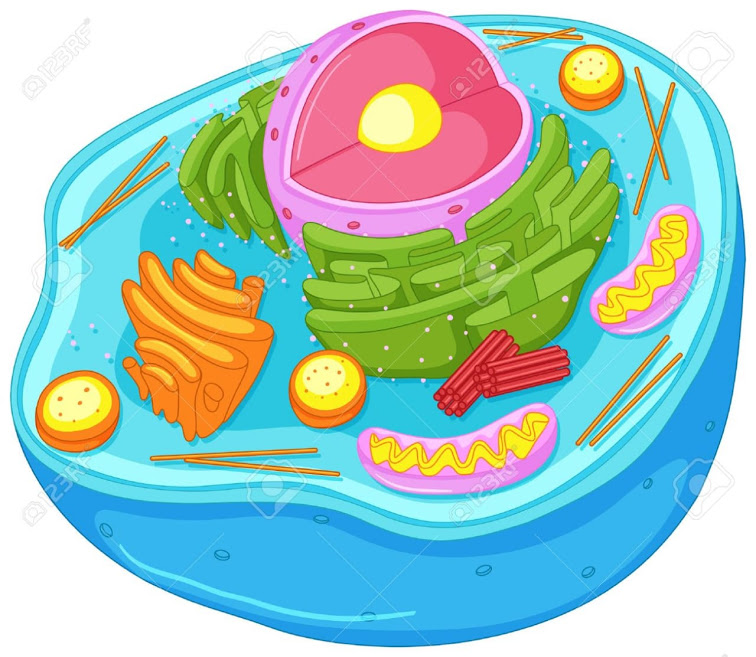
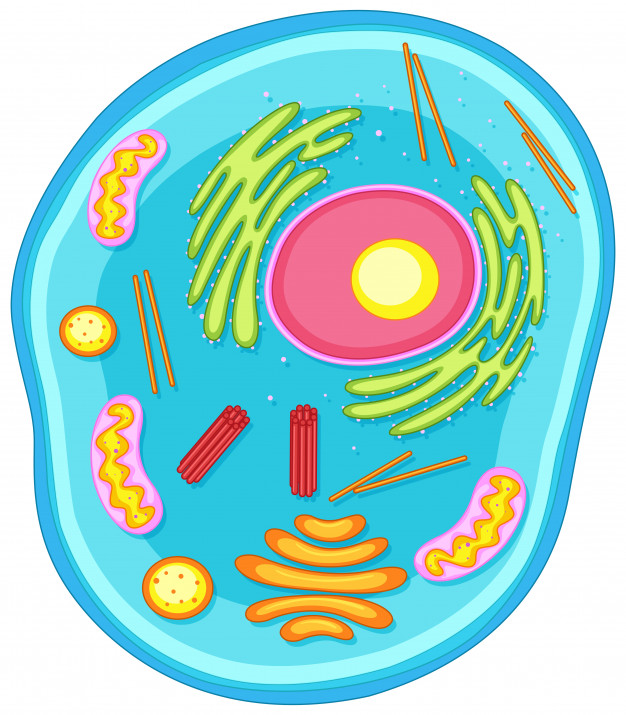
v 0.4

diff --git a/vegetal.html b/vegetal.html
@@ -1,0 +1,71 @@
+<!DOCTYPE html>
+<html lang="pt">
+<head>
+    <meta charset="UTF-8">
+    <meta name="viewport" content="width=device-width, initial-scale=1.0">
+    <meta http-equiv="X-UA-Compatible" content="ie=edge">
+    <title>Atlas celular</title>
+</head>
+<body onload="criarSvg(15)">  
+    <link rel="stylesheet" type="text/css" href="estilo.css">
+    <script src = "logica.js"></script>
+    <!-- Navbar -->
+    <div id = "navbar">
+        <ul>
+           <li><a href="procarionte.html">Procarionte</a></li>
+           <li><a href="animal.html">Animal</a></li>
+           <li><a class="active">Vegetal</a></li>
+           <li><a href="resumo.html">Resumo</a></li>
+          </ul>
+    </div>
+
+    <!-- fim navbar -->
+
+     <!-- modal -->
+
+    <div id="modal" onclick="fecharModal()">
+        <div id="modalConteudo">
+          <span id="botaoFecharModal" onclick="fecharModal()">[x]</span><br />
+          <span id="tituloModal">a</span><br />
+          <span id="descricaoModal">b</span><br />
+        </div>
+      </div>
+      <!-- <div id="conteudo"></div> -->
+    <!-- fim modal -->
+    <div id = "atlas">
+
+    <img id = "imagem" src="img/vegetal.png" usemap="#image-map">
+
+    <map name="image-map">
+            <area target="" alt="Cloroplasto" title="Cloroplasto" id="0" coords="287,206,317,185,285,141,261,152" shape="poly">
+            <area target="" alt="Cloroplasto" title="Cloroplasto" id="1" coords="359,212,331,205,346,164,384,170" shape="poly">
+            <area target="" alt="Cloroplasto" title="Cloroplasto" id="2" coords="397,259,359,230,405,183,440,197" shape="poly">
+            <area target="" alt="Parede celular" title="Parede celular" id="3" coords="7,219,392,313,581,85,571,261,383,437,18,350" shape="poly">
+            <area target="" alt="Bolinha azul e amarela" title="Bolinha azul e amarela" id="4" coords="323,278,10" shape="circle">
+            <area target="" alt="Bolinha azul e amarela" title="Bolinha azul e amarela" id="5" coords="276,210,8" shape="circle">
+            <area target="" alt="Bolinha azul e amarela" title="Bolinha azul e amarela" id="6" coords="455,159,11" shape="circle">
+            <area target="" alt="Bolinha azul e amarela" title="Bolinha azul e amarela" id="7" coords="518,95,11" shape="circle">
+            <area target="" alt="Bolinha azul e amarela" title="Bolinha azul e amarela" id="8" coords="257,138,9" shape="circle">
+            <area target="" alt="Complexo de golgi" title="Complexo de golgi" id="9" coords="205,248,263,230,295,233,307,264,301,282,288,298,214,272,207,262" shape="poly">
+            <area target="" alt="Núcleo" title="Núcleo" id="10" coords="306,61,315,35,337,19,362,12,388,14,416,21,443,38,451,64,448,85,425,102,396,112,371,116,339,114,315,111,295,98,295,80" shape="poly">
+            <area target="" alt="Retículo enplasmático" title="Retículo enplasmatico" id="11" coords="466,73,503,88,484,137,472,145,426,165,391,173,326,163,301,151,272,126,275,94,282,64,301,53,299,77,299,98,312,110,334,116,364,117,395,112,418,105,448,97,459,84" shape="poly">
+            <area target="" alt="Mitocôndria" title="Mitocôndria" id="12" coords="360,246,367,250,363,265,368,280,364,295,350,292,344,273,346,256" shape="poly">
+            <area target="" alt="Mitocôndria" title="Mitocôndria" id="13" coords="245,171,245,193,247,218,260,217,269,197,263,180" shape="poly">
+            <area target="" alt="Circulo roxo" title="Circulo roxo" id="14" coords="295,216,319,211,346,214,351,227,341,239,333,246,312,247,292,227" shape="poly">
+            <area target="" alt="Vacúolo" title="Vacúolo" id="15" coords="99,240,182,259,197,254,219,238,234,220,239,193,239,162,243,143,263,123,273,97,272,66,259,52,238,41,209,53,187,80,154,110,120,136,91,157,59,189,55,216" shape="poly">
+        </map>
+
+    </map>
+
+    
+    <div id = "svg" >
+    </div>
+</div>
+<div id = "zoom" >
+   <button onclick="zoom('+')"> + </button>
+   <button onclick="zoom('-')"> - </button>
+</div>
+
+<div id = "testePosicaoTela" ></div>
+</body>
+</html>

diff --git a/animal.html b/animal.html
@@ -1,0 +1,68 @@
+<!DOCTYPE html>
+<html lang="pt">
+<head>
+    <meta charset="UTF-8">
+    <meta name="viewport" content="width=device-width, initial-scale=1.0">
+    <meta http-equiv="X-UA-Compatible" content="ie=edge">
+    <title>Atlas celular</title>
+</head>
+<body onload="criarSvg(15)">  
+    <link rel="stylesheet" type="text/css" href="estilo.css">
+    <script src = "logica.js"></script>
+    <!-- Navbar -->
+    <div id = "navbar">
+        <ul>
+           <li><a href="procarionte.html">Procarionte</a></li>
+           <li><a class="active" href="animal.html">Animal</a></li>
+           <li><a >Vegetal</a></li>
+           <li><a href="resumo.html">Resumo</a></li>
+          </ul>
+    </div>
+
+    <!-- fim navbar -->
+
+     <!-- modal -->
+
+    <div id="modal" onclick="fecharModal()">
+        <div id="modalConteudo">
+          <span id="botaoFecharModal" onclick="fecharModal()">[x]</span><br />
+          <span id="tituloModal">a</span><br />
+          <span id="descricaoModal">b</span><br />
+        </div>
+      </div>
+      <!-- <div id="conteudo"></div> -->
+    <!-- fim modal -->
+    <div id = "atlas">
+
+    <img id = "imagem" src="img/animal.png" usemap="#image-map">
+
+    <map name="image-map">
+            <area target="" alt="Complexo de golgi" title="Complexo de golgi" id="0" coords="113,297,127,335,173,339,193,321,205,303,200,281,191,263,172,245,150,234,117,253,109,279" shape="poly">
+            <area target="" alt="Mitocôndria" title="Mitocôndria" id="1" coords="181,340,195,339,209,347,224,355,249,362,261,365,264,377,257,390,238,394,212,387,189,373,179,361,175,349" shape="poly">
+            <area target="" alt="Mitocôndria" title="Mitocôndria" id="2" coords="145,181,145,163,159,149,185,134,203,131,222,131,233,141,229,153,196,162,186,173,173,183,162,187" shape="poly">
+            <area target="" alt="Mitocôndria" title="Mitocôndria" id="3" coords="321,103,335,88,358,81,380,85,396,91,407,99,409,109,403,119,384,115,371,109,359,112,347,116,336,116" shape="poly">
+            <area target="" alt="Palito laranja" title="Palito laranja" id="4" coords="205,277,216,293,261,350,266,348,255,316" shape="poly">
+            <area target="" alt="Palito laranja" title="Palito laranja" id="5" coords="441,366,477,322,499,304,501,310,455,365" shape="poly">
+            <area target="" alt="Palito laranja" title="Palito laranja" id="6" coords="447,288,441,268,516,232,516,245" shape="poly">
+            <area target="" alt="Palito laranja" title="Palito laranja" id="7" coords="240,159,247,169,321,129,312,122" shape="poly">
+            <area target="" alt="Centríolo" title="Centríolo" id="8" coords="187,200,191,184,251,202,248,221" shape="poly">
+            <area target="" alt="Centríolo" title="Centríolo" id="9" coords="201,255,209,274,265,254,260,239" shape="poly">
+            <area target="" alt="Retículo endoplasmático" title="Retículo endoplasmático" id="10" coords="291,209,354,193,411,216,443,225,463,223,455,185,421,160,367,141,305,160,289,177" shape="poly">
+            <area target="" alt="Retículo endoplasmático" title="Retículo endoplasmático" id="11" coords="287,264,265,270,261,306,319,363,392,365,449,330,446,303,403,317,369,328,332,320,305,296" shape="poly">
+            <area target="" alt="Lisossomos" title="Lisossomos" id="12" coords="121,209,22" shape="circle">
+            <area target="" alt="Lisossomos" title="Lisossomos" id="13" coords="267,109,17" shape="circle">
+            <area target="" alt="Núcleo" title="Núcleo" id="14" coords="295,239,304,219,316,210,331,203,349,202,362,201,383,209,400,217,411,233,420,248,427,281,419,293,409,306,391,321,364,324,349,321,327,313,316,299,303,283,296,263" shape="poly">
+
+        </map>
+    
+    <div id = "svg" >
+    </div>
+</div>
+<div id = "zoom" >
+   <button onclick="zoom('+')"> + </button>
+   <button onclick="zoom('-')"> - </button>
+</div>
+
+<div id = "testePosicaoTela" ></div>
+</body>
+</html>

diff --git a/logica.js b/logica.js
@@ -5,7 +5,19 @@ biblioteca = [
   {"estrutura": "Cílio" , "descricao" : "Estruturas semelhantes ao flagelo, porém numerosas e curtas, que favorecem a locomoção celular"},
   {"estrutura": "Ribossomo" , "descricao" : "Pequenas unidades livres no citoplasma, responsáveis pela síntese proteica da célula"},
   {"estrutura": "Membrana Plasmática" , "descricao" : "Pode ser dividida em cápsula: Estrutura mucosa, composta principalmente por polissacarídeos. Favorece a adesão às superfícies, impede a desidratação e dá proteção à célula... E também em parede celular: Estrutura localizada no exterior da membrana celular. Confere rigidez e determina a forma da célula. Protege e controla as trocas de substâncias com o meio ambiente"},
-  {"estrutura": "Granos de alimento" , "descricao" : "Pequenas partículas sólidas que entraram na célula por meio de endocitose, e contém a energia necessária para o funcionamento normal da célula"}
+  {"estrutura": "Granos de alimento" , "descricao" : "Pequenas partículas sólidas que entraram na célula por meio de endocitose, e contém a energia necessária para o funcionamento normal da célula"},
+
+  {"estrutura": "Complexo de golgi", "descricao": ""},
+  {"estrutura": "Mitocôndria", "descricao": ""},
+  {"estrutura": "Centríolo", "descricao": ""},
+  {"estrutura": "Retículo endoplasmático", "descricao": ""},
+  {"estrutura": "Lisossomos", "descricao": ""},
+
+  {"estrutura": "Cloroplasto", "descricao": ""},
+  {"estrutura": "Parede celular", "descricao": ""},
+  {"estrutura": "Núcleo", "descricao": ""},
+  {"estrutura": "Vacúolo", "descricao": ""},
+  {"estrutura": "", "descricao": ""},
 ]
 MensagemExibida = false;
 
@@ -50,7 +62,7 @@ function criarSvg(limiteCriacao){
 
   console.log(limiteCriacao)
 
-  for (let index = 0; index < 31; index++) {
+  for (let index = 0; index < limiteCriacao; index++) {
     elemento = document.getElementById(index);
     coords = elemento.coords.split(",");
     title = elemento.title;

diff --git a/procarionte.html b/procarionte.html
@@ -13,8 +13,8 @@
     <div id = "navbar">
         <ul>
            <li><a class="active" >Procarionte</a></li>
-           <li><a href="#animal">Animal</a></li>
-           <li><a href="#vegetal">Vegetal</a></li>
+           <li><a href="animal.html">Animal</a></li>
+           <li><a href="vegetal.html">Vegetal</a></li>
            <li><a href="resumo.html">Resumo</a></li>
           </ul>
     </div>
